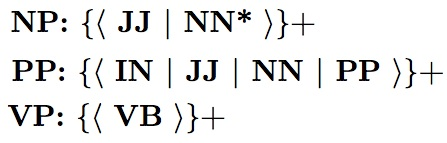
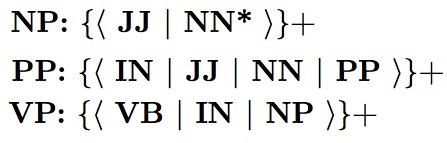
CS298 Report v3

diff --git a/chap2.tex b/chap2.tex
@@ -4,7 +4,7 @@
 Even with the simplifications developed for searching information online it can be tough and time consuming to navigate through the vast amount of data. One of the solutions, to this problem is developing an automated system which is capable enough to accept input in natural language and generate an output which is equally natural. This is where a Question Answer System plays an important role. The aim of a Question Answer System is basically to allow a user to ask a question in everyday language and receive an answer in user comprehendible format. 
 
 \paragraph{}
-As with developing software systems, building a efficient and robust Question Answering System has its own fair share of challenges. There are multiple ways in which we can build this system from  machine language translation, neural networks and different machine learning algorithms.
+As with developing software systems, building a efficient and robust Question Answering System has its own fair share of challenges. There are multiple ways in which we can build this system from  machine language translation \cite {bao2014knowledge}, neural networks \cite{iyyer2014neural} and different machine learning algorithms \cite{zhang2003question}.
 
 The first challenge faced while developing such a system is how do we collect the data, how do we store it. The next challenge which comes to mind are the users of this system. A system used developed for the internet needs to effective enough to process the data in a way so as to not restrict the users, in other words the system needs to handle the different ways which users can express themselves. The comes the most challenging aspect of this system, the language itself. We have about 7000 languages spoken world wide, getting data of sufficient quality so that we develop such a system is a difficult task as except a few, most of the languages have minimal resources on the world wide web.
  
@@ -18,16 +18,16 @@ Below we explain in brief the architecture of a Question Answer System and discu
 \end{enumerate}
 
 \section{Question Answer System Paradigms}
-We have had multiple Question Answer Systems developed till today.
+We have had multiple Question Answer Systems developed till today \cite {katz1997annotating} \cite {zheng2002answerbus}.
 A question answer system can be implemented by following any of the three paradigms \cite {wongso2016literature} which are IR-based Question Answer Systems, Knowledge based Question Answer Systems and Hybrid Question Answer Systems.
 
 \subsection{IR-based Question Answering System}
 \paragraph{}
-A simple Question Answer system should be capable of providing answer which is short, concise and as close as possible to the correct answer. A Question Answer system which deals with questions which retrieve facts, these are answered by short strings these strings are more often than not named entities viz. a person, an organization or a location. Such a system is known as a Factoid Question Answering System. A factoid question answering system looks for answers on the Web, a document collection or from short transcripts from which it can retrieve the possible answers more often than not these will be named entities \cite {chopra2016named} which are then formatted and presented to the user. These systems are generally involve three steps Question Processing, Retrieving and Ranking the Passages and Extracting the Answers. 
+A simple Question Answer system should be capable of providing answer which is short, concise and as close as possible to the correct answer. A Question Answer system which deals with questions which retrieve facts, these are answered by short strings these strings are more often than not named entities viz. a person, an organization or a location. Such a system is known as a Factoid Question Answering System. A factoid question answering system looks for answers on the Web, a document collection or from short transcripts from which it can retrieve the possible answers more often than not these will be named entities \cite {chopra2016named} which are then formatted and presented to the user. These systems are generally involve three steps Question Processing, Retrieving and Ranking the Passages and Extracting the Answers. Figure 1 describes the architecture for a IR-Based question answer system.
 
 \begin{figure}[htb]
 \centering
-\includegraphics[width=0.8\textwidth]{images/IR_BasedQA.jpg}
+\includegraphics[scale=0.8]{images/IR_BasedQA.jpg}
 \caption{IR Based Question Answer System.} 
 \label{fig:IR_BasedQA}
 \end{figure}
@@ -40,13 +40,14 @@ extract. For question processing to work we need to perform the query formulatio
 \item Retrieving and Ranking Passage \\
 Once we get a query format from step 1, we can use this to search the answer in the documents.
 We first rank the documents in which we find the probable answers, after this we rank the documents in which a match was not found, we do this by using user written rules or by using machine learning algorithms.
-	
+
+\break
 \item Extracting Answers \\
 The system extracts answers from passages using one of the two methods either by using answer type or by using N-grams tiling.
 \end{enumerate}
 
 \subsection{Knowledge based Question Answer System}
-This paradigm relies on the mechanism to query a database. A semantic query is formed for the question which is asked. The query formed is used to retrieve result from the database. The system ideally functions like a semantic parser as it maps a text string to a logical format. The database can be a ususal relational database or the system may store triplets. The triplet has a predicate which defines the relation between the other 2 (two) parts. For example, DBPedia, Freebase are triplet stores derived from Wikipedia Infoboxes. One of the questions which can be posed to Knowledge based Question Answer system is to ask about one of the missing factors in the triplet. A Knowledge Based System can be implemented using the following approaches,
+This paradigm relies on the mechanism to query a database. A semantic query is formed for the question which is asked. The query formed is used to retrieve result from the database. The system ideally functions like a semantic parser as it maps a text string to a logical format. The database can be a ususal relational database or the system may store triplets. The triplet has a predicate which defines the relation between the other 2 (two) parts. For example, DBPedia \cite{auer2007dbpedia}, Freebase \cite {bollacker2008freebase} are triplet stores derived from Wikipedia Infoboxes. One of the questions which can be posed to Knowledge based Question Answer system is to ask about one of the missing factors in the triplet. A Knowledge Based System can be implemented using the following approaches,
 
 \begin{enumerate}
 
@@ -62,7 +63,7 @@ With the ruled based approach one needs to know the language for which the syste
 \end{enumerate}
 
 \subsection{Hybrid Approach to Question Answering System}
-The previous approaches were limited to using text or knowledge for the Question Answer System. In the hybrid approach we combine the steps in these to implement the system. One example of such a system is IBM Watson. Below we describe the steps involved in the functioning of this system
+The previous approaches were limited to using text or knowledge for the Question Answer System. In the hybrid approach we combine the steps in these to implement the system. One example of such a system is IBM Watson \cite {high2012era}. Figure 2 describes the different phases involved in the implementing a hybrid question answer system.
 
 \begin{enumerate}
 
@@ -71,11 +72,12 @@ In this phase, the system parses the question, tags it for named entities and ex
 
 \begin{figure}[htb]
 \centering
-\includegraphics[width=0.8\textwidth]{images/Hybrid_QA.jpg}
+\includegraphics[scale=0.8]{images/Hybrid_QA.jpg}
 \caption{Hybrid Question Answer System.} 
 \label{fig:Hybrid_QA}
 \end{figure}
 
+\break
 \item Candidate Answer Generation \\
 Once we have the query phase from step 1, we search external documents, texts and transcripts as well as a structured database to extract as many as possible candidate answers. The manner in which we search the query phrase will differ, for the searching the external sources the methods depends on the text we are searching. For the database, we can use queries similar to the ones we use with triplet stores like FreeBase, DBPedia etc.
 

diff --git a/chap3.tex b/chap3.tex
@@ -28,6 +28,7 @@ We have a implementation of a Brill tagger \cite {brill1992simple} for English a
 \paragraph{}
 For the Hindi variant of the Brill tagger, we first tag the words as per the data available in the database. Then for the remaining words of the sentence we use the rules to assign the most probable tag. Below we describe the algorithm and the rules used to tag words in a Hindi Sentence. The rules we use are as follows \\
 
+\break
 \begin{enumerate}
 \item Use the Lexicon in the database \\
 First tag the words in the phrase which are present in the Lexicon. The words which are not present in the lexicon are tagged as Unknown. We then apply the below rules to tag the words.
@@ -58,7 +59,6 @@ RULE: After applying all the rules if the word is still tagged as Unknown then t
 		
 \end{enumerate}
 	
-
 \begin{algorithm}
 \caption{Part of Speech Tagger}\label{alg:brilltaggervariant}
 \begin{algorithmic}[1]
@@ -122,7 +122,9 @@ RULE: After applying all the rules if the word is still tagged as Unknown then t
 \paragraph{}
 After all the words in the sentence are tagged with the most probable part of speech, we generate a tree like structure composing of the Noun, Verb and PostPosition or Preposition Phrase. For a Hindi sentence \cite{bhat2017improving}, the structure is generally Noun Phrase followed by the Verb Phrase which is same as most of the English sentences. In English, the verb or the predicate helps us separate the Noun and Verb Phrase, in case of Hindi we have something similar, these are known as $case$ words. These help us distinguish between the subject and object in a given sentence. This is why we have implemented the Hindi parse tree to be comprised of Noun Phrase, Postposition Phrase and Verb Phrase. 
 
-For example, for the sentence shown in Figure 3.1 we a parse tree as shown in Figure 3.2
+\break
+\paragraph{}
+For example, for the sentence shown in Figure 3 the parse tree generated is as shown in Figure 4
 
 \begin{figure}[htb]
 \centering
@@ -133,15 +135,14 @@ For example, for the sentence shown in Figure 3.1 we a parse tree as shown in Fi
 
 \begin{figure}[htb]
 \centering
-\includegraphics[width=0.8\textwidth]{images/parsetree.jpg}
+\includegraphics[width=0.5\textwidth]{images/parsetree.jpg}
 \caption{Parse Tree.} 
 \label{fig:parsetree}
 \end{figure}
 
 \break
-
 \paragraph{}
-To generate the above parse tree structure we follow certain grammar rules, \\
+To generate the parse tree structure as shown in Figure 4, we use the following grammar rules, \\
 
 \textbf {NP: $\{ \langle$ JJ | NN* $\rangle \}$+}  \\
 
@@ -151,14 +152,14 @@ For any given sentence, the initial sequence of adjectives and nouns becomes par
 
 This rule extracts the information from the sentence till we encounter the verb phrase. Hindi being a subject-object-verb language, most of the sentences usually end with verbs. So the verb phrase extraction rule is \\
 
-\textbf {VP: $\{ \langle$ VB $\rangle \}$+} \\
+\textbf {VP: $\{ \langle$ VB | IN | NP $\rangle \}$+} \\
 
 In Hindi, the case words which separate the noun and post position phrase are the ones which help define the relationship between the subject and object. Hence, identifying the case words more accurately will help increase how accurate the generated parse tree will be. Below we describe the algorithms for parsing sentence for different parts like the Noun Phrase, Postpositional Phrase and Verb Phrase,
 
 \begin{figure}[htb]
 \centering
-\includegraphics[width=0.8\textwidth]{images/gammarrules.jpg}
-\caption{Parse Tree.} 
+\includegraphics[width=0.5\textwidth]{images/gammarrules.jpg}
+\caption{Grammar Rules.} 
 \label{fig:gammarrules}
 \end{figure}
 

diff --git a/testandresults.tex b/testandresults.tex
@@ -3,6 +3,64 @@
 \paragraph{}
 The Question Answer System implemented is part of the Yioop search engine and is platform independent. The system works by tagging phrases using a Brill variant Part of Speech tagger for Hindi sentences. In the next step, triplets are formed and stored in the database using the grammar rules for Hindi. The test data for the system is an index created by configuring Yioop to crawl hindi webpages from Wikipedia and Indian websites with Hindi content. We created 3 crawls about 100,000 webpages from which the summarizer extracted text from 6000 documents to create the index. Below are examples, of some 'Wh' questions to the system.
 
+\section {Standalone Testcase}
+In this section, we provide a text case for the system as standalone module. It is assumed that the input to the system is a semantically and syntactically correct sentence.
+
+\begin{enumerate}
+\item  Figure 9 shows the sentence after it is tagged for parts of speech
+
+\begin{figure}[htb]
+\centering
+\includegraphics[width=0.8\textwidth]{images/sentence_testcase1.jpg}
+\caption{Standalone Sentence 1.} 
+\label{fig:sentence_testcase1}
+\end{figure}
+
+A word for word translation of the above sentence to English is 'Obama Harward law school from 1999 graduate complete'. From the translation, we can guess which words should go into the noun, post and verb phrases. Figure 10 shows the Parse Tree generated for this sentence 
+
+\begin{figure}[htb]
+\centering
+\includegraphics[width=0.8\textwidth]{images/standalone_testcase.jpg}
+\caption{Parse Tree for sentence in Figure 9.} 
+\label{fig:standalone_testcase}
+\end{figure}
+
+\paragraph{}
+The triplets extracted for the above parse tree are as shown in Figure 11 above.
+
+\begin{figure}[htb]
+\centering
+\includegraphics[width=0.8\textwidth]{images/triplet_standalone.jpg}
+\caption{Triplets Extracted for sentence Figure 9.} 
+\label{fig:triplet_standalone}
+\end{figure}
+
+\break
+\item  Figure 12 shows the sentence after it is tagged for parts of speech
+
+\begin{figure}[htb]
+\centering
+\includegraphics[width=0.5\textwidth]{images/sentence_testcase2.jpg}
+\caption{Standalone Sentence 2.} 
+\label{fig:sentence_testcase2}
+\end{figure}
+
+A word for word translation of the above sentence to English is 'Narendra Modi India (s) Prime Minister is'. From the translation, we can guess which words should go into the noun, post and verb phrases. Figure 13 shows the Parse Tree generated for this sentence 
+
+\begin{figure}[htb]
+\centering
+\includegraphics[width=0.8\textwidth]{images/standalone_testcase2.jpg}
+\caption{Parse Tree for sentence in Figure 12.} 
+\label{fig:standalone_testcase2}
+\end{figure}
+
+\end{enumerate}
+
+\break
+\section{Question Answer Module Integrated in Yioop}
+\paragraph{}
+Below are results for the Question Answer System when a crawl was setup for all wikipedia pages in Hindi, Indian websites. The crawler was able to crawl 100,000 webpages and extract information from 5925 webpages to create the index. Figure 14, Figure 15 and Figure 16 are examples of Who, Why and What questions and with the best answer displayed at the top.
+
 \begin{figure}[htb]
 \centering
 \includegraphics[width=0.8\textwidth]{images/who_question.jpg}

diff --git a/abs.tex b/abs.tex
@@ -1,2 +1,2 @@
-In today's world with the large amount of data present on the world wide web it is becoming a necessity to develop efficient Question Answering Systems. A Question Answer System should take queries from the user in natural language and return a short concise answer which best fits the response to the question. The report discusses the integration and implementation of Question Answer Systems for English and Hindi as part of the  open source search engine Yioop. Yioop is developed and managed by Dr. Christopher Pollett, San Jose State University.  A Question  Answer Sytem involves  many aspects related to Natural Language Processing.  The Information Retrieval module summarizes the text, which is then tagged for Parts of Speech. This tagged data is then used to create multiple question answer pairs which resemble the natural language format. The system is implemented so that it can distinguish the type of question being asked by the user, search the database or the index for the relevant information and then return the best answer to the user.
+In today's world with the amount of data available to us on the world wide web it is becoming a necessity to develop efficient Question Answering Systems. A Question Answer System should take queries from the user in natural language and return a short concise answer which best fits the response to the question. The report discusses the integration and implementation of Question Answer Systems for English and Hindi as part of the  open source search engine Yioop. Yioop is developed and managed by Dr. Christopher Pollett, San Jose State University.  A Question  Answer System involves  many aspects related to Natural Language Processing.  The Information Retrieval which gathers data from multiple sources. The data is then processed to get some relevant text which is as close as possible to being semantically and syntactically correct in the natural language. The next phase is  tagging the data for Parts of Speech. This tagged data is then used to create multiple question answer pairs which resemble the natural language format. The system is implemented so that it can distinguish the type of question being asked by the user, search the database for the relevant information and then return the best answer to the user.
 

diff --git a/thesis.tex b/thesis.tex
@@ -87,8 +87,8 @@
 %
 % ***** second committee member's name
 %
-\def\secondCommitteeMember{Count Dracula}
-\def\secondCommitteeMemberAffiliation{Department of Mathematics}
+\def\secondCommitteeMember{ }
+\def\secondCommitteeMemberAffiliation{Department of Computer Science}
 
 \setcounter{secnumdepth}{3}
 
